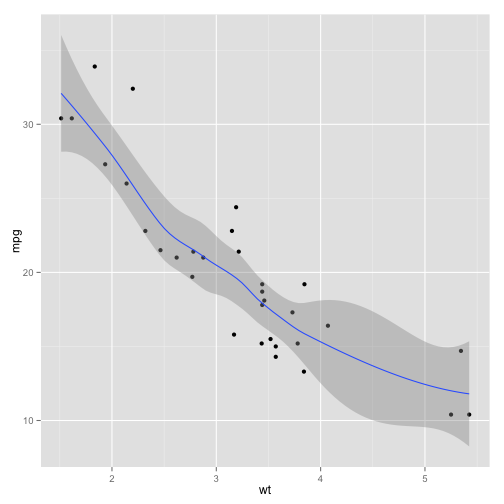
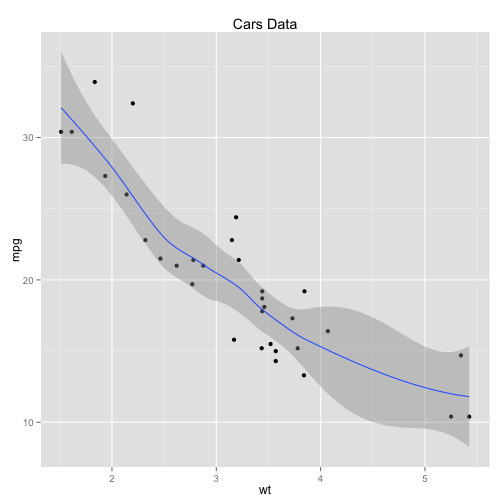
change of titel in graph - second try

diff --git a/index.html b/index.html
@@ -81,14 +81,14 @@
   <article>
     <!-- MotionChart generated in R 3.0.1 by googleVis 0.4.3 package -->
 
-<!-- Thu Aug 15 16:42:53 2013 -->
+<!-- Fri Aug 16 16:58:00 2013 -->
 
 <!-- jsHeader -->
 
 <script type="text/javascript">
  
 // jsData 
-function gvisDataMotionChartIDb943224a2f0 () {
+function gvisDataMotionChartID1599267ae114 () {
   var data = new google.visualization.DataTable();
   var datajson =
 [
@@ -186,14 +186,14 @@ return(data);
 }
  
 // jsDrawChart
-function drawChartMotionChartIDb943224a2f0() {
-  var data = gvisDataMotionChartIDb943224a2f0();
+function drawChartMotionChartID1599267ae114() {
+  var data = gvisDataMotionChartID1599267ae114();
   var options = {};
 options["width"] =    600;
 options["height"] =    500;
 
      var chart = new google.visualization.MotionChart(
-       document.getElementById('MotionChartIDb943224a2f0')
+       document.getElementById('MotionChartID1599267ae114')
      );
      chart.draw(data,options);
     
@@ -217,9 +217,9 @@ options["height"] =    500;
     pkgs.push(chartid);
 
   // Add the drawChart function to the global list of callbacks
-  callbacks.push(drawChartMotionChartIDb943224a2f0);
+  callbacks.push(drawChartMotionChartID1599267ae114);
 })();
-function displayChartMotionChartIDb943224a2f0() {
+function displayChartMotionChartID1599267ae114() {
   var pkgs = window.__gvisPackages = window.__gvisPackages || [];
   var callbacks = window.__gvisCallbacks = window.__gvisCallbacks || [];
   window.clearTimeout(window.__gvisLoad);
@@ -245,12 +245,12 @@ function displayChartMotionChartIDb943224a2f0() {
 
 <!-- jsChart -->  
 
-<script type="text/javascript" src="https://www.google.com/jsapi?callback=displayChartMotionChartIDb943224a2f0"></script>
+<script type="text/javascript" src="https://www.google.com/jsapi?callback=displayChartMotionChartID1599267ae114"></script>
  
 
 <!-- divChart -->
 
-<div id="MotionChartIDb943224a2f0"
+<div id="MotionChartID1599267ae114"
   style="width: 600px; height: 500px;">
 </div>
 

diff --git a/index.md b/index.md
@@ -34,14 +34,14 @@ Animated List
 ## Motion Chart
 
 <!-- MotionChart generated in R 3.0.1 by googleVis 0.4.3 package -->
-<!-- Thu Aug 15 16:42:53 2013 -->
+<!-- Fri Aug 16 16:58:00 2013 -->
 
 
 <!-- jsHeader -->
 <script type="text/javascript">
  
 // jsData 
-function gvisDataMotionChartIDb943224a2f0 () {
+function gvisDataMotionChartID1599267ae114 () {
   var data = new google.visualization.DataTable();
   var datajson =
 [
@@ -139,14 +139,14 @@ return(data);
 }
  
 // jsDrawChart
-function drawChartMotionChartIDb943224a2f0() {
-  var data = gvisDataMotionChartIDb943224a2f0();
+function drawChartMotionChartID1599267ae114() {
+  var data = gvisDataMotionChartID1599267ae114();
   var options = {};
 options["width"] =    600;
 options["height"] =    500;
 
      var chart = new google.visualization.MotionChart(
-       document.getElementById('MotionChartIDb943224a2f0')
+       document.getElementById('MotionChartID1599267ae114')
      );
      chart.draw(data,options);
     
@@ -170,9 +170,9 @@ options["height"] =    500;
     pkgs.push(chartid);
 
   // Add the drawChart function to the global list of callbacks
-  callbacks.push(drawChartMotionChartIDb943224a2f0);
+  callbacks.push(drawChartMotionChartID1599267ae114);
 })();
-function displayChartMotionChartIDb943224a2f0() {
+function displayChartMotionChartID1599267ae114() {
   var pkgs = window.__gvisPackages = window.__gvisPackages || [];
   var callbacks = window.__gvisCallbacks = window.__gvisCallbacks || [];
   window.clearTimeout(window.__gvisLoad);
@@ -196,11 +196,11 @@ function displayChartMotionChartIDb943224a2f0() {
  </script>
  
 <!-- jsChart -->  
-<script type="text/javascript" src="https://www.google.com/jsapi?callback=displayChartMotionChartIDb943224a2f0"></script>
+<script type="text/javascript" src="https://www.google.com/jsapi?callback=displayChartMotionChartID1599267ae114"></script>
  
 <!-- divChart -->
   
-<div id="MotionChartIDb943224a2f0"
+<div id="MotionChartID1599267ae114"
   style="width: 600px; height: 500px;">
 </div>
 
